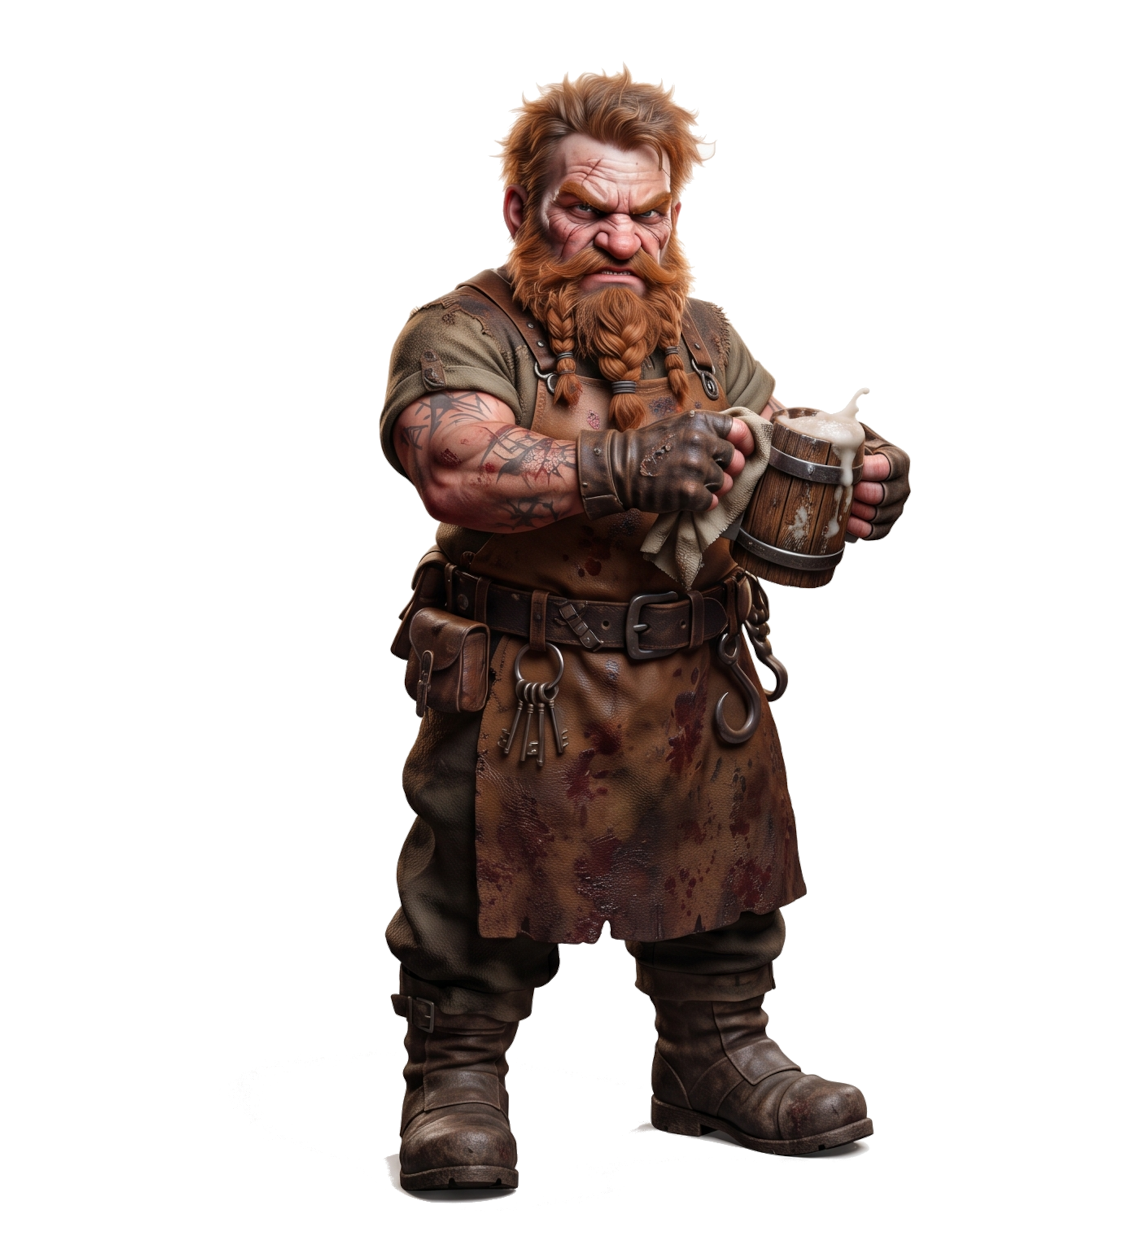
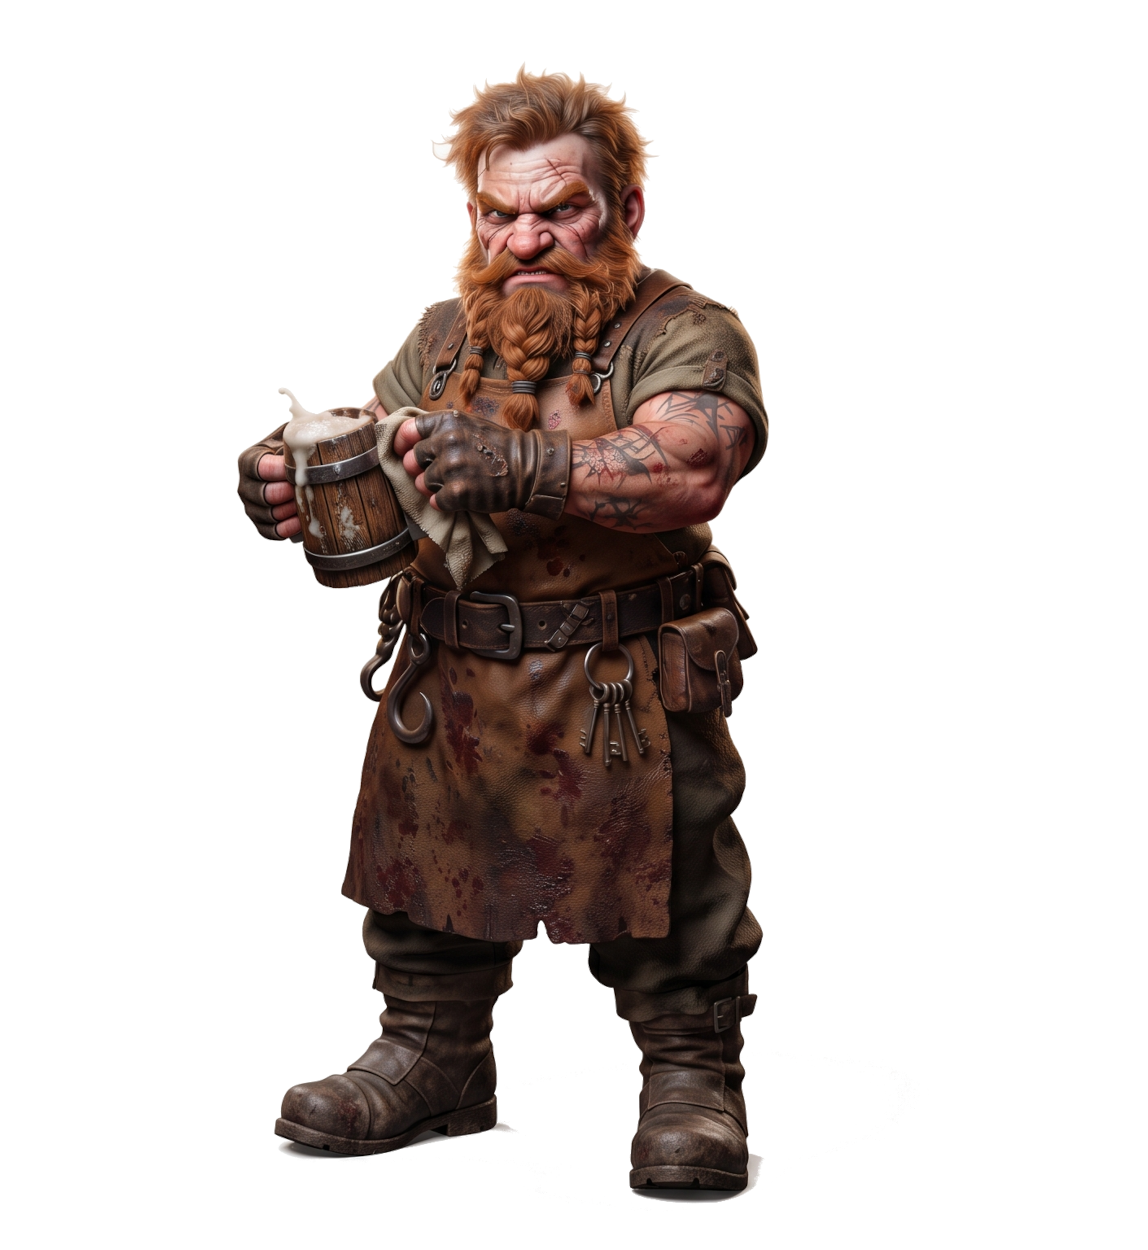
update display playerinfo

Changed region(s): [[0.1829, 0.0312, 0.7927, 0.9672]]

diff --git a/cmd/gui/player_info.go b/cmd/gui/player_info.go
@@ -27,41 +27,60 @@ type ServerData struct {
 }
 
 type InfoBox struct {
-	player  *Player
-	name    *widget.Label
-	room    *widget.Label
-	group   *widget.Label
-	members *widget.Label
-	npc     *widget.Label
-	items   *widget.Label
-	content fyne.CanvasObject
+	player		*Player
+	name		*widget.Label
+	room		*widget.Label
+	group		*widget.Label
+	members		*widget.Label
+	npcList		*fyne.Container
+	itemList	*fyne.Container
+	content		fyne.CanvasObject
+	bgImg		*canvas.Image
 }
 
 func showPlayerInfo(p *Player) *InfoBox {
 
 	b := &InfoBox{
-		player:  p,
-		name:    widget.NewLabel(""),
-		room:    widget.NewLabel(""),
-		group:   widget.NewLabel(""),
-		members: widget.NewLabel(""),
-		npc:     widget.NewLabel(""),
-		items:   widget.NewLabel(""),
-		content: widget.NewLabel(""),
+		player:		p,
+		name:		widget.NewLabel(""),
+		room:		widget.NewLabel(""),
+		group:		widget.NewLabel(""),
+		members:	widget.NewLabel(""),
+		npcList:	container.NewVBox(),
+		itemList:	container.NewVBox(),
+		content:	widget.NewLabel(""),
+		bgImg:		canvas.NewImageFromFile(""),
 	}
-	b.members.Wrapping = fyne.TextWrapWord
 
-	frame := canvas.NewRectangle(color.NRGBA{R: 20, G: 20, B: 20, A: 200})
+	for _, lbl := range []*widget.Label{b.name, b.room, b.group, b.members} {
+		lbl.Wrapping = fyne.TextWrapWord
+	}
+
+	frame := canvas.NewRectangle(color.NRGBA{R: 15, G: 15, B: 15, A: 110})
 	frame.StrokeColor = color.White
 	frame.StrokeWidth = 2
 
+	sizer := canvas.NewRectangle(color.Transparent)
+	sizer.SetMinSize(fyne.NewSize(280, 250))
+
+
+	b.bgImg.FillMode = canvas.ImageFillStretch
+
+	header := container.NewVBox(
+		widget.NewSeparator(),
+	)
+
+	scrollContent := container.NewVScroll(
+		container.NewVBox(b.name, b.room, b.group, b.members, b.npcList, b.itemList),
+	)
+
+	body := container.NewBorder(header, nil, nil, nil, scrollContent)
+
 	b.content = container.NewStack(
+		sizer,
+		b.bgImg,
 		frame,
-		container.NewPadded(container.NewVBox(
-			widget.NewLabelWithStyle("PLAYER INFO", fyne.TextAlignCenter, fyne.TextStyle{Bold: true}),
-			widget.NewSeparator(),
-			b.name, b.room, b.group, b.members, b.npc, b.items,
-		)),
+		container.NewPadded(body),
 	)
 	b.Update()
 	return b
@@ -71,17 +90,45 @@ func (b *InfoBox) Content() fyne.CanvasObject { return b.content }
 
 func (b *InfoBox) Update() {
 	p := b.player
-	b.name.SetText("Name: " + p.name)
-	b.room.SetText("Room: " + p.room.name)
-	if p.group.Id == "" {
-		b.group.SetText("Group: -")
-		b.members.SetText("")
-		// return
+	if p.avatar != "" && b.bgImg.File != p.avatar {
+		b.bgImg.File = p.avatar
+		b.bgImg.Refresh()
 	}
-	b.group.SetText(fmt.Sprintf("Group: %s (leader %s)", p.group.Id, p.group.Leader))
-	b.members.SetText("Members: " + strings.Join(p.group.Members, ", "))
-	b.npc.SetText("NPC: " + strings.Join(p.room.npc, ", "))
-	b.items.SetText("Items: " + strings.Join(p.room.items, ", "))
+
+	b.name.SetText("NAME: " + p.name)
+	b.room.SetText("ROOM: " + p.room.name)
+	if p.group.Id == "" {
+		b.group.SetText("GROUP: -")
+		b.members.SetText("")
+	} else {
+		b.group.SetText(fmt.Sprintf("Group: %s (leader %s)", p.group.Id, p.group.Leader))
+		b.members.SetText("MEMBERS: " + strings.Join(p.group.Members, ", "))
+	}
+	b.npcList.RemoveAll()
+	if len(p.room.npc) == 0 {
+		b.npcList.Add(widget.NewLabel("NPC: -"))
+	} else {
+		b.npcList.Add(widget.NewLabel("NPC:"))
+		for _, npcName := range p.room.npc {
+			lbl := widget.NewLabel("	" + npcName)
+			lbl.Wrapping = fyne.TextWrapWord
+			b.npcList.Add(lbl)
+		}
+	}
+	b.npcList.Refresh()
+
+	b.itemList.RemoveAll()
+	if len(p.room.items) == 0 {
+		b.itemList.Add(widget.NewLabel("ITEMS: -"))
+	} else {
+		b.itemList.Add(widget.NewLabel("ITEMS:"))
+		for _, itemName := range p.room.items {
+			lbl := widget.NewLabel("	" + itemName)
+			lbl.Wrapping = fyne.TextWrapWord
+			b.itemList.Add(lbl)
+		}
+	}
+	b.itemList.Refresh()
 }
 
 func (player *Player) PlayerRoomUpdate(msg string) {

diff --git a/cmd/gui/layout.go b/cmd/gui/layout.go
@@ -43,14 +43,15 @@ type CardinalButtons struct {
 
 func (ui *Hud) MinSize(objects []fyne.CanvasObject) fyne.Size {
 
-	if len(objects) < 2 {
+	if len(objects) < 3 {
 		return fyne.NewSize(0, 0)
 	}
 	btnMin := objects[0].MinSize()
 	chatMin := objects[1].MinSize()
+	invMin := objects[2].MinSize()
 
 	margin := float32(10)
-	minW := btnMin.Width + chatMin.Width + 3*margin
+	minW := btnMin.Width + chatMin.Width + invMin.Width + 4*margin
 	minH := btnMin.Height + 2*margin
 	return fyne.NewSize(minW, minH)
 }
@@ -63,32 +64,28 @@ func (ui *Hud) Layout(objects []fyne.CanvasObject, containerSize fyne.Size) {
 
 	margin := float32(10)
 
-	btnSize := objects[0].MinSize()
-	Y := h - btnSize.Height - margin
-	hudHeight := h - Y - margin
+	btnMin := objects[0].MinSize()
+	chatMin := objects[1].MinSize()
+	invMin := objects[2].MinSize()
+
+	hudHeight := max(btnMin.Height, chatMin.Height, invMin.Height)
+	Y := h - hudHeight - margin
 
 	// Buttons
 	btnX := margin
-	objects[0].Resize(fyne.NewSize(btnSize.Width, hudHeight))
+	objects[0].Resize(fyne.NewSize(btnMin.Width, hudHeight))
 	objects[0].Move(fyne.NewPos(btnX, Y))
 
 	// Chat
-	chatX := btnX + btnSize.Width + margin
-	chatWidth := (w - chatX - margin) / 2
-	if chatWidth < 50 {
-		chatWidth = 50
-	}
+	chatX := btnX + btnMin.Width + margin
+	chatWidth := max(chatMin.Width, (w - chatX - margin) / 2)
 
 	objects[1].Resize(fyne.NewSize(chatWidth, hudHeight))
 	objects[1].Move(fyne.NewPos(chatX, Y))
 
 	// Inventory
 	invX := chatX + chatWidth + margin
-	// invY := Y - 50
-	invWidth := (w - invX - margin) / 3
-	if invWidth < 50 {
-		invWidth = 50
-	}
+	invWidth := max(invMin.Width, (w - invX - margin) / 3)
 
 	objects[2].Resize(fyne.NewSize(invWidth, hudHeight))
 	objects[2].Move(fyne.NewPos(invX, Y))

diff --git a/cmd/gui/main.go b/cmd/gui/main.go
@@ -120,12 +120,13 @@ func main() {
 	game := GameState{inventory: inv, player: &player}
 	data := Data{w: w, conn: conn, cb: &CardinalButtons{}, g: &game}
 	background := canvas.NewImageFromFile("./data/tavern.jpeg")
-	background.FillMode = canvas.ImageFillStretch
+	background.FillMode = canvas.ImageFillCover
+	// background.FillMode = canvas.ImageFillStretch
 
 	logLabel := widget.NewLabel("")
 	logLabel.Wrapping = fyne.TextWrapWord
 	logView := container.NewVScroll(logLabel)
-
+	
 	// ajouter conn en parametre de la fonction
 	btnContainer := newButtonContainer(background, &player, &data)
 	playerinfo := showPlayerInfo(&player)
@@ -136,17 +137,17 @@ func main() {
 		hudContent,
 		container.NewVBox(container.NewHBox(playerinfo.Content())),
 	)
-
+	
 	arenaBg := canvas.NewImageFromFile("./data/arena.jpeg")
 	arenaBg.FillMode = canvas.ImageFillStretch
-
+	
 	battleUI := NewBattleUI(&player, &data)
 	battleContent := container.NewStack(
 		arenaBg,
 		overlay,
 		battleUI.Content(),
 	)
-
+	
 	loggedIn := false
 	// playerinfo.Update()
 	loginView, onLoginMsg := LoginScreen(conn, &player, func(name string) {
